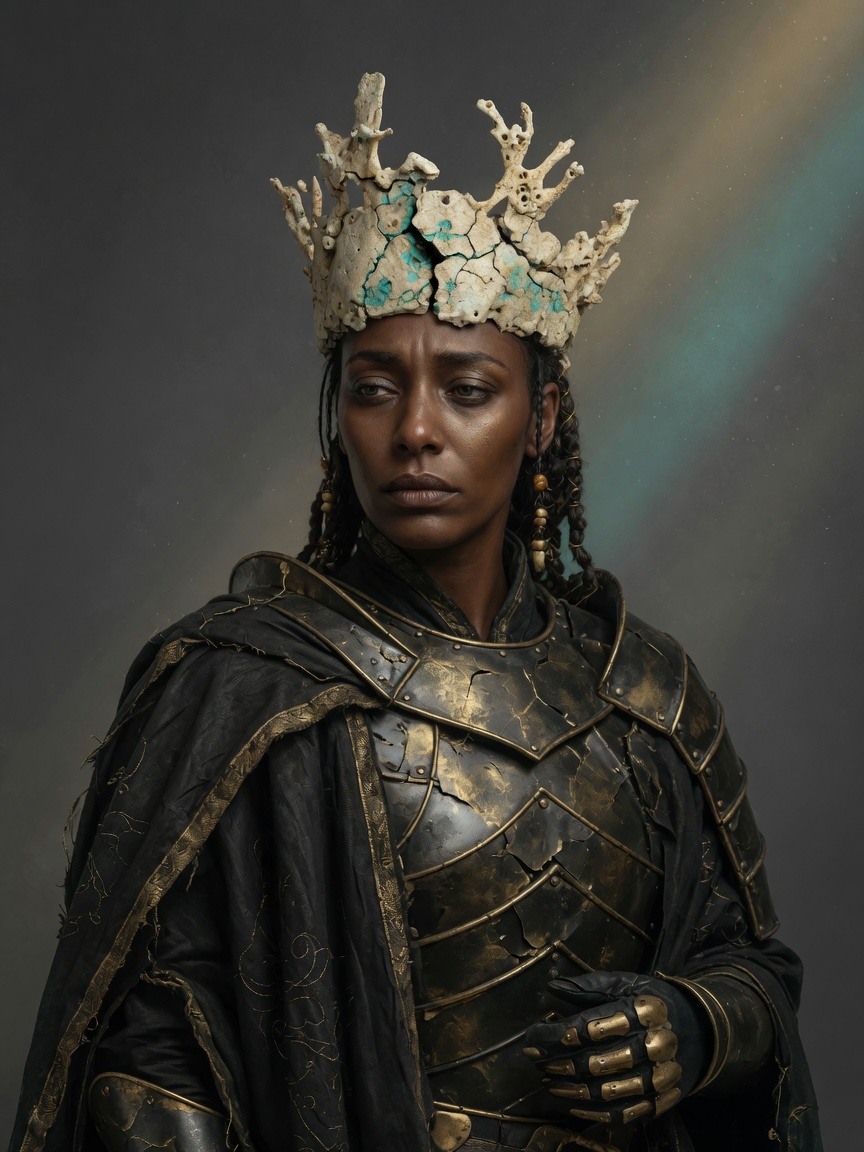
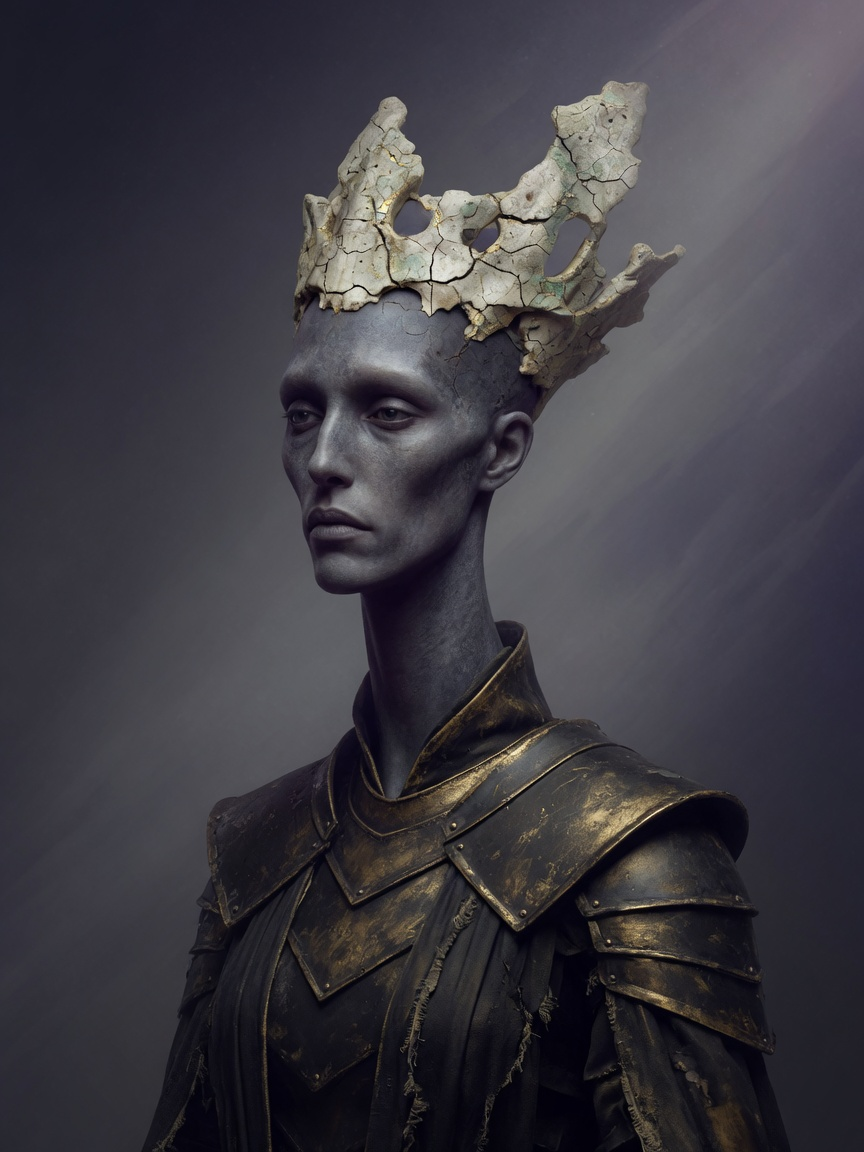
Redo Zuberi-Dulcina: dark ashen, and actually Celestial this time.
I passed her in the sixteenth-pass audit and should not have. She had
ordinary human proportions, a short neck and no elongation whatsoever.
Checking fifteen subjects against a list produced a margin error -- a
bulk audit beats no audit and loses to opening one image and asking one
question. The ledger now records that she was wrongly passed rather than
quietly showing her as fixed.

She now has the long neck, elongated skull, long limbs and refined
post-human features the clade requires, standing upright.

Skin is dark ashen at owner request -- a deep cool ash-grey, slate
rather than warm brown. Nothing in the novel fixes her colouring and she
has no relatives among the illustrated subjects, so there is no family
lock to respect and no canon to contradict.

Kept: the cracked crown as a bone-like porous growth, blackened-gold
armour robes, tragic commanding expression, plain ground, and no runes
or symbols anywhere -- the defect that opened her file in the sixth pass.

diff --git a/exodus-the-archimedes-engine/docs/visual-briefs/zuberi-dulcina.md b/exodus-the-archimedes-engine/docs/visual-briefs/zuberi-dulcina.md
@@ -30,7 +30,7 @@ Dim historical haze, ruined glory
 ## Generation prompt
 
 ```
-Highly detailed cinematic sci-fi encyclopedia illustration, rich textures, sharp focus, painterly digital art with photographic detail, soft volumetric lighting, no text, no watermark, no UI chrome. Upper-body portrait of Zuberi-Dulcina, historical Imperial Celestial queen of Kelowan. This is an Imperial Celestial, not an ordinary human: unnaturally tall with elongated proportions, long limbs and a long neck, refined post-human features and bearing — never an ordinary human build, face or posture. ABSOLUTELY NO SYMBOLS ANYWHERE: no runes, no glyphs, no floating characters, no sunburst or star emblems, no heraldry, no inscriptions, no lettering of any kind, in the air or on the walls or on her armour. Tall post-human war sovereign with a tragic commanding expression, blackened-gold armour robes, a cracked crown of calcium-growth bloodstone in faint turquoise and gold — a bone-like matte porous growth of the body, never a cut, faceted or polished gemstone, never set in metal like jewellery, and never red, rust, ruby, scarlet or crimson. Fallen empire grandeur, smoky dramatic light, plain uncluttered background.
+Highly detailed cinematic sci-fi encyclopedia illustration, rich textures, sharp focus, painterly digital art with photographic detail, soft volumetric lighting, no text, no watermark, no UI chrome. Upper-body portrait of Zuberi-Dulcina, historical Imperial Celestial queen of Kelowan. This is an Imperial Celestial, not an ordinary human: unnaturally tall with elongated proportions, long limbs and a long neck, refined post-human features and bearing — never an ordinary human build, face or posture. ABSOLUTELY NO SYMBOLS ANYWHERE: no runes, no glyphs, no floating characters, no sunburst or star emblems, no heraldry, no inscriptions, no lettering of any kind, in the air or on the walls or on her armour. HER SKIN IS DARK ASHEN: a deep ash-grey complexion, cool and dark like cooled ash or slate — not warm brown, not olive, not ordinary human skin. A war sovereign with a very long neck, elongated skull and limbs and refined post-human features, standing upright with a tragic commanding expression, blackened-gold armour robes, a cracked crown of calcium-growth bloodstone in faint turquoise and gold — a bone-like matte porous growth of the body, never a cut, faceted or polished gemstone, never set in metal like jewellery, and never red, rust, ruby, scarlet or crimson. Fallen empire grandeur, smoky dramatic light, plain uncluttered background.
 ```
 
 ## Sources

diff --git a/exodus-the-archimedes-engine/docs/visual-briefs/IMAGE-REVIEW.md b/exodus-the-archimedes-engine/docs/visual-briefs/IMAGE-REVIEW.md
@@ -193,8 +193,16 @@ Auditing all 15 non-regenerated subjects by eye found **five failures**:
 | `valdier` | Bloodstone as carved plates set in a gold collar | Porous growth at throat and shoulders |
 | `stethos-thierry` | Glyph-like characters on the robe; glowing display cases behind him | Plain robes, plain ground, flared collar and nape bulb intact |
 
-Ten passed the audit unchanged, including `makaio`, `helena-chione`, `thyra`, `clavissa`,
-`asahi-iryna`, `uulana`, `malquilvo`, `ramona-ursule`, `zuberi-dulcina` and `lord-gahiji`.
+Ten were passed in that audit, including `makaio`, `helena-chione`, `thyra`, `clavissa`,
+`asahi-iryna`, `uulana`, `malquilvo`, `ramona-ursule` and `lord-gahiji`.
+
+> **`zuberi-dulcina` was passed here and should not have been.** The owner flagged it immediately
+> afterwards: ordinary human proportions, short neck, no elongation at all. Checking fifteen
+> subjects against a list produced a margin error — a bulk audit is more reliable than no audit and
+> less reliable than opening one image and asking one question. She was regenerated the same day,
+> and given a **dark ashen** complexion at the same time (owner preference; nothing in the novel
+> fixes her colouring). She now has the long neck, elongated skull and refined features the clade
+> requires, with the cracked crown and fallen-empire armour intact.
 
 **Carolien and Luus are the instructive pair.** Both had been regenerated for a *different* reason —
 her hair, her age — and both passed those checks. Neither was ever asked whether she looked like a
